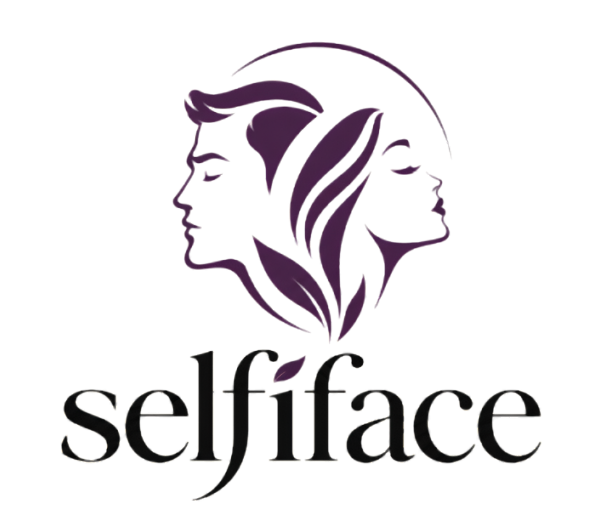
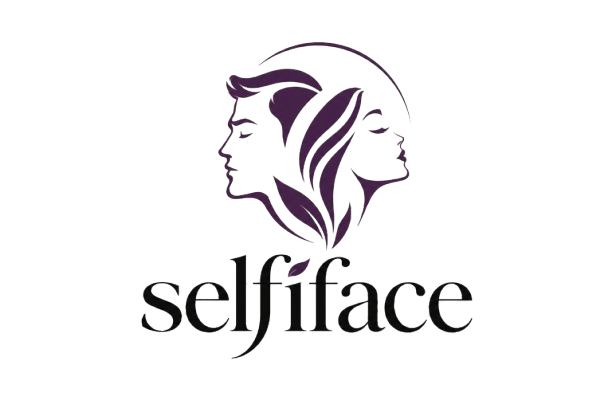
issue in admin

diff --git a/apps/client/components/brand-logo.tsx b/apps/client/components/brand-logo.tsx
@@ -1,19 +1,18 @@
 'use client';
 
-import { useTheme } from '@/lib/theme-context';
 import { cn } from '@lumea/ui';
 import Image from 'next/image';
 import type { ComponentPropsWithoutRef } from 'react';
 
+/** Transparent lockup (no plate) — `wordmark_inverted.png`. */
 const BRAND = {
   mark: '/brand/mark.png',
-  lockupLight: '/brand/lockup-light.png',
-  lockupDark: '/brand/lockup-dark.png',
+  wordmark: '/brand/wordmark_inverted.png',
   name: 'Selfieface',
 } as const;
 
 type BrandLogoProps = {
-  /** `header`: mark + wordmark text; `lockup`: stacked emblem+type; `mark`: emblem only */
+  /** `header` / `lockup`: transparent wordmark; `mark`: emblem only */
   variant?: 'header' | 'lockup' | 'mark';
   className?: string;
   priority?: boolean;
@@ -25,9 +24,6 @@ export function BrandLogo({
   priority,
   ...rest
 }: BrandLogoProps) {
-  const { theme } = useTheme();
-  const dark = theme === 'dark';
-
   if (variant === 'mark') {
     return (
       <span className={cn('inline-flex items-center', className)} {...rest}>
@@ -43,39 +39,19 @@ export function BrandLogo({
     );
   }
 
-  if (variant === 'lockup') {
-    const src = dark ? BRAND.lockupDark : BRAND.lockupLight;
-    return (
-      <span className={cn('inline-flex items-center', className)} {...rest}>
-        <Image
-          src={src}
-          alt={BRAND.name}
-          width={180}
-          height={154}
-          priority={priority}
-          className="h-14 w-auto object-contain sm:h-16"
-        />
-      </span>
-    );
-  }
+  const heightClass =
+    variant === 'lockup' ? 'h-14 w-auto object-contain sm:h-16' : 'h-9 w-auto object-contain sm:h-10';
 
   return (
-    <span
-      className={cn('inline-flex items-center gap-2.5', className)}
-      {...rest}
-    >
+    <span className={cn('inline-flex items-center', className)} {...rest}>
       <Image
-        src={BRAND.mark}
-        alt=""
-        width={40}
-        height={40}
+        src={BRAND.wordmark}
+        alt={BRAND.name}
+        width={180}
+        height={120}
         priority={priority}
-        className="h-8 w-8 shrink-0 object-contain sm:h-9 sm:w-9"
-        aria-hidden
+        className={heightClass}
       />
-      <span className="font-display text-xl font-medium tracking-tight text-foreground sm:text-2xl">
-        {BRAND.name}
-      </span>
     </span>
   );
 }

diff --git a/apps/admin/lib/api.ts b/apps/admin/lib/api.ts
@@ -1,8 +1,20 @@
 import { parseApiErrorBody, ApiRequestError, resolveMediaUrl } from '@lumea/utils';
 
-export const nestApiUrl = process.env.NEST_API_URL ?? 'http://localhost:4000/api';
-export const publicApiUrl = process.env.NEXT_PUBLIC_API_URL ?? 'http://localhost:4000/api';
+/**
+ * Browser + shared admin API base URL.
+ * Must be NEXT_PUBLIC_* so it is available in client components.
+ * Set this on Render at **build** time (not only runtime) and redeploy.
+ * `.env.local` is never used on Render.
+ */
+export const publicApiUrl = (
+  process.env.NEXT_PUBLIC_API_URL?.trim() ||
+  'http://localhost:4000/api'
+).replace(/\/$/, '');
+
 export const apiUrl = publicApiUrl;
+
+/** @deprecated Use publicApiUrl — NEST_API_URL is server-only and is undefined in the browser. */
+export const nestApiUrl = publicApiUrl;
 
 /** Public media origin (CDN). Falls back unset → serve via API host. */
 export const mediaBaseUrl =
@@ -89,7 +101,7 @@ export async function adminFetch<T>(
     }
   }
 
-  const res = await fetch(`${nestApiUrl}${path}`, {
+  const res = await fetch(`${publicApiUrl}${path}`, {
     ...fetchInit,
     headers: {
       ...(fetchInit.body instanceof FormData ? {} : { 'Content-Type': 'application/json' }),

diff --git a/apps/admin/components/admin-brand-mark.tsx b/apps/admin/components/admin-brand-mark.tsx
@@ -1,6 +1,6 @@
 import Image from 'next/image';
 
-/** Admin chrome: emblem + Selfieface word (light UI). */
+/** Admin chrome: transparent Selfieface wordmark (no background plate). */
 export function AdminBrandMark({
   className,
   compact,
@@ -9,25 +9,19 @@ export function AdminBrandMark({
   compact?: boolean;
 }) {
   return (
-    <span className={className ?? 'inline-flex items-center gap-2.5'}>
+    <span className={className ?? 'inline-flex items-center'}>
       <Image
-        src="/brand/mark.png"
-        alt=""
-        width={40}
-        height={40}
-        className={compact ? 'h-7 w-7 object-contain' : 'h-8 w-8 object-contain'}
-        aria-hidden
-        priority
-      />
-      <span
+        src="/brand/wordmark_inverted.png"
+        alt="Selfieface"
+        width={compact ? 120 : 160}
+        height={compact ? 80 : 107}
         className={
           compact
-            ? 'font-display text-xl text-foreground'
-            : 'font-display text-2xl text-foreground'
+            ? 'h-8 w-auto object-contain'
+            : 'h-10 w-auto object-contain'
         }
-      >
-        Selfieface
-      </span>
+        priority
+      />
     </span>
   );
 }

diff --git a/docs/SETUP.md b/docs/SETUP.md
@@ -409,9 +409,11 @@ This monorepo is **pnpm-only**. `npm install && npm run build` fails (`workspace
 
 For **client** / **admin** on Render (or any host), set:
 
-- `NEXT_PUBLIC_API_URL=https://<your-api-host>/api`
-- `NEST_API_URL=https://<your-api-host>/api` (server-side login BFF; required or login returns empty/JSON errors)
-- `CLIENT_URL` / `ADMIN_URL` / `CORS_ORIGINS` on the API to match your HTTPS storefront URLs
+- `NEXT_PUBLIC_API_URL=https://<your-api-host>/api` — **required at build time** (Next inlines `NEXT_PUBLIC_*`; changing it later needs a redeploy)
+- `NEST_API_URL=https://<your-api-host>/api` — server-side auth BFF only (login/refresh)
+- Do **not** rely on `apps/admin/.env.local` or `apps/client/.env.local` on Render — those files stay on your machine
+- Admin build: `bash scripts/render-build-admin.sh` · start: `bash scripts/render-start-admin.sh`
+- `CLIENT_URL` / `ADMIN_URL` / `CORS_ORIGINS` on the API must match your HTTPS app URLs
 
 Chrome “Dangerous” / “Not secure” on login usually means the site is **HTTP** (password forms) or Safe Browsing flagged the host — serve the apps over **HTTPS** (Render does this by default on `*.onrender.com`).
 
